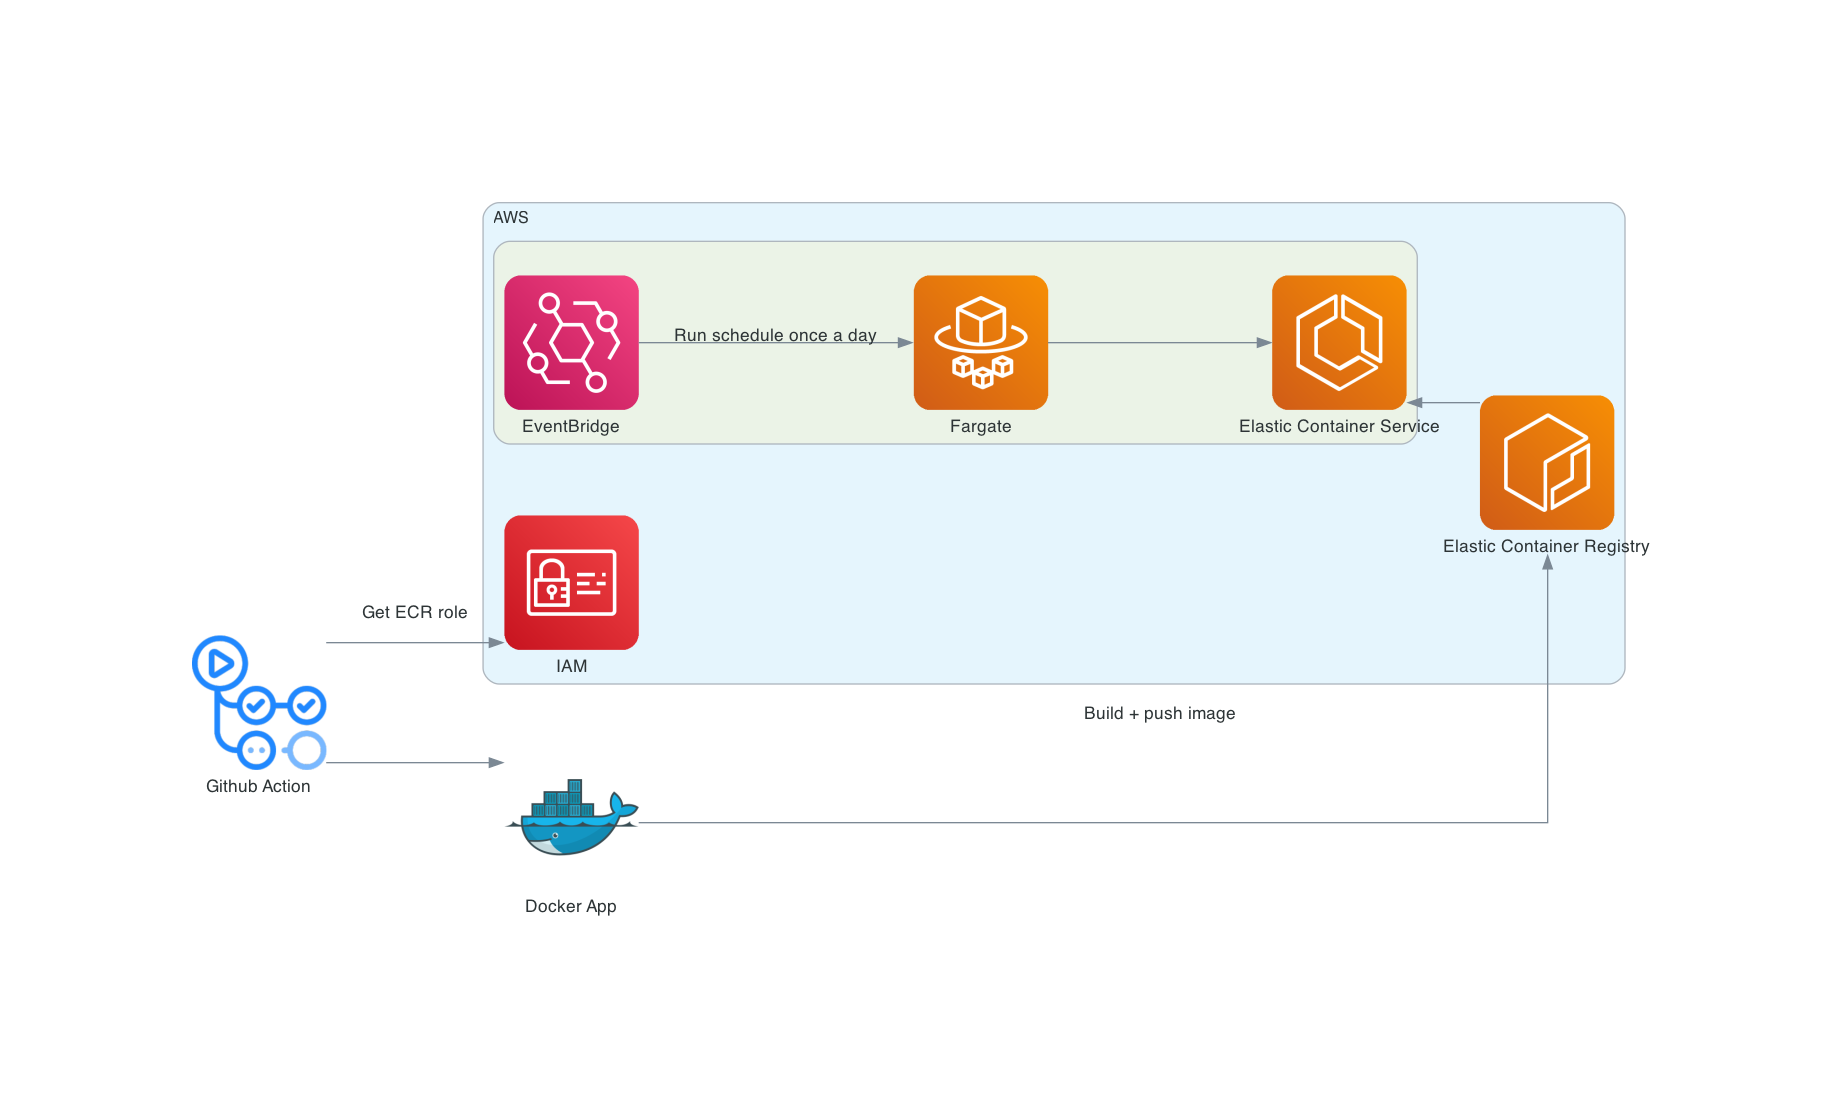
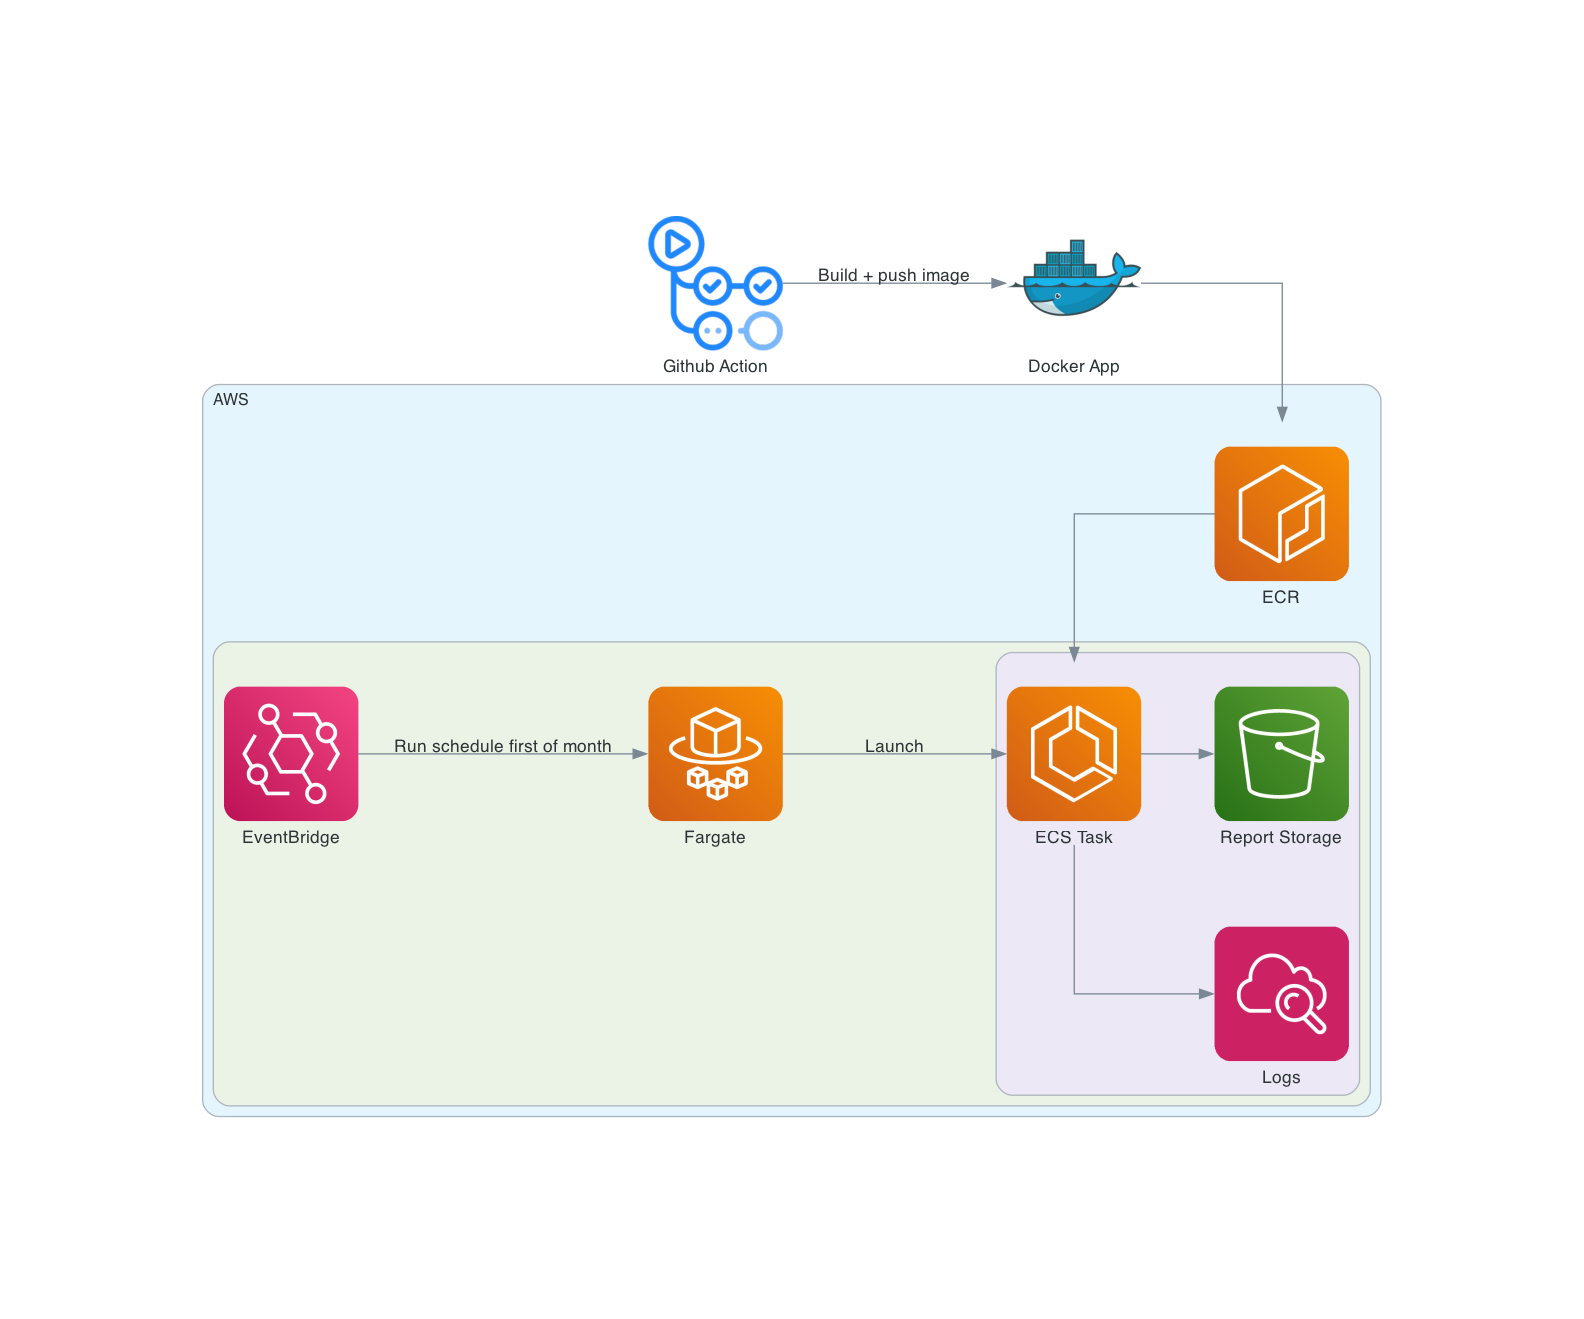
docs: Updated diagram

Changed region(s): [[0.0928, 0.1537, 0.8971, 0.8608], [0.2784, 0.7071, 0.3403, 0.7685], [0.5259, 0.5533, 0.5878, 0.5841]]

diff --git a/docs/backend_diagram.py b/docs/backend_diagram.py
@@ -1,7 +1,8 @@
 from diagrams import Cluster, Diagram, Edge
 from diagrams.aws.compute import ECR, ECS, Fargate
-from diagrams.aws.security import IAM
 from diagrams.aws.integration import Eventbridge
+from diagrams.aws.management import Cloudwatch
+from diagrams.aws.storage import S3
 from diagrams.onprem.ci import GithubActions
 from diagrams.onprem.container import Docker
 
@@ -10,14 +11,17 @@ with Diagram("", filename="backend_diagram", outformat="png"):
   docker_image = Docker("Docker App")
 
   with Cluster("AWS"):
-    iam_role_ecr = IAM("IAM")
-    ecr = ECR("Elastic Container Registry")
+    ecr = ECR("ECR")
 
     with Cluster(""):
-        ecs = ECS("Elastic Container Service")
-        ecs << ecr
-        Eventbridge("EventBridge") >> Edge(label="Run schedule once a day") >> Fargate("Fargate") >> ecs
+        fargate = Fargate("Fargate")
+        Eventbridge("EventBridge") >> Edge(label="Run schedule first of month") >> fargate
+        
+        with Cluster(""):
+          ecs = ECS("ECS Task")
+        
+          fargate >> Edge(label="Launch") >> ecs >> Cloudwatch("Logs")
+          ecs << ecr
+          ecs >> S3("Report Storage")
 
-
-  github_action_ecr >> Edge(label="Get ECR role") >> iam_role_ecr
-  github_action_ecr >> docker_image >> Edge(label="Build + push image") >> ecr
+  github_action_ecr >> Edge(label="Build + push image")  >> docker_image >> ecr
